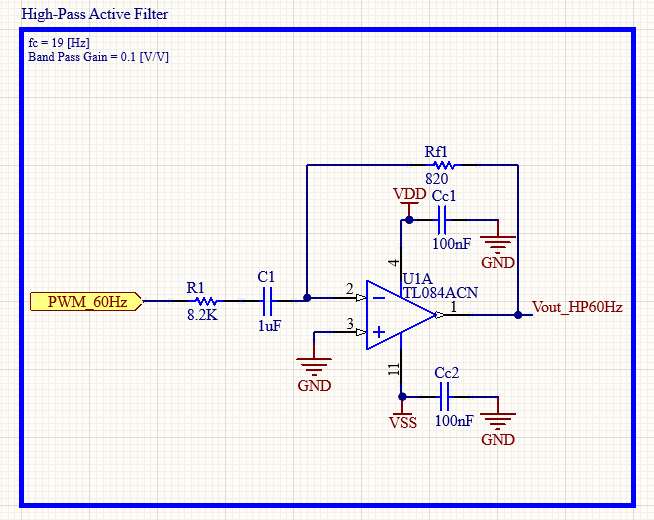
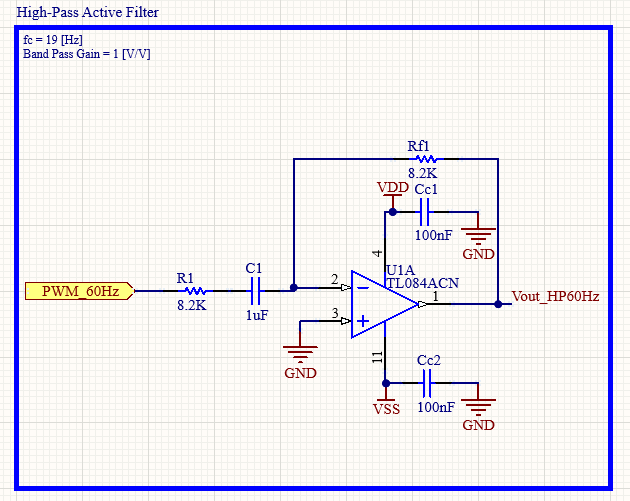
Update 60Hz figures and malab script

diff --git a/matlab/signal_analysis/pwm_60Hz.m b/matlab/signal_analysis/pwm_60Hz.m
@@ -9,7 +9,7 @@ script_dir = fileparts(mfilename('fullpath'));
     % Find file relative to current matlab file directory 
 filename = fullfile(script_dir, '..', '..', ...
     'firmware', 'pwm_signal_generator', ...
-    'generated', 'f60Hz.h');
+    'lookup_tables', 'f60Hz.h');
 
 %disp(filename)
 
@@ -145,21 +145,39 @@ title('Fast Fourier Transform (FFT) of PWM Signal');
 
 %% Figure 5 - PWM FFT with 60 Hz band-pass filter overlay
 
-fc_low  = 19;
-fc_high = 164;
-
 w = 2*pi*f_pwm;
 w(1) = eps;
 
-%% ToDo: Use final passive component values for transferfunctions
-H_hp = 1j*w ./ (1j*w + 2*pi*fc_low);
-H_lp = (2*pi*fc_high) ./ (1j*w + 2*pi*fc_high);
+%% ------------------------------------------------------------------------
+%% Filter component values (60 Hz signal path)
+%% ------------------------------------------------------------------------
+
+% High-pass filter
+Rin_HP = 8.2e3;      % Ohm
+Rf_HP  = 8.2e3;        % Ohm
+Cin_HP = 1e-6;       % F
+
+% Low-pass filter
+Rin_LP = 100e3;      % Ohm
+Rf_LP  = 100e3;      % Ohm
+Cf_LP  = 10e-9;      % F
+
+%% Derived cutoff frequencies
+
+fc_HP = 1/(2*pi*Rin_HP*Cin_HP);
+fc_LP = 1/(2*pi*Rf_LP*Cf_LP);
+
+%% Transfer functions
+
+s = 1j*w;
+
+H_hp = (-Rf_HP*Cin_HP*s) ./ (1 + Rin_HP*Cin_HP*s);
+
+H_lp = (-Rf_LP/Rin_LP) ./ (1 + Rf_LP*Cf_LP*s);
 
 H_bp = H_hp .* H_lp;
 
-H_bp_mag = abs(H_bp);
-H_bp_mag = H_bp_mag / max(H_bp_mag);
-H_bp_dB = 20*log10(H_bp_mag + eps);
+H_bp_dB = 20*log10(abs(H_bp));
 
 figure;
 plot(f_pwm, PWM_mag_dB, 'LineWidth', 1.2);
@@ -167,8 +185,8 @@ hold on;
 plot(f_pwm, H_bp_dB, 'LineWidth', 1.8);
 grid on;
 
-xline(fc_low, '--', '19 Hz');
-xline(fc_high, '--', '164 Hz');
+xline(fc_HP, '--', '19 Hz');
+xline(fc_LP, '--', '164 Hz');
 xline(f0, ':', sprintf('%.1f Hz', f0));
 xline(FS, ':', sprintf('f_{PWM} = %.0f Hz', FS));
 
@@ -178,5 +196,6 @@ title('PWM FFT with 60 Hz Filter Response Overlay');
 
 legend('PWM FFT', '60 Hz filter response');
 
-xlim([0 1000]);
+%xlim([0 1000]); %toggle for zoomed version
+xlim([0 20000]);
 ylim([-100 5]);